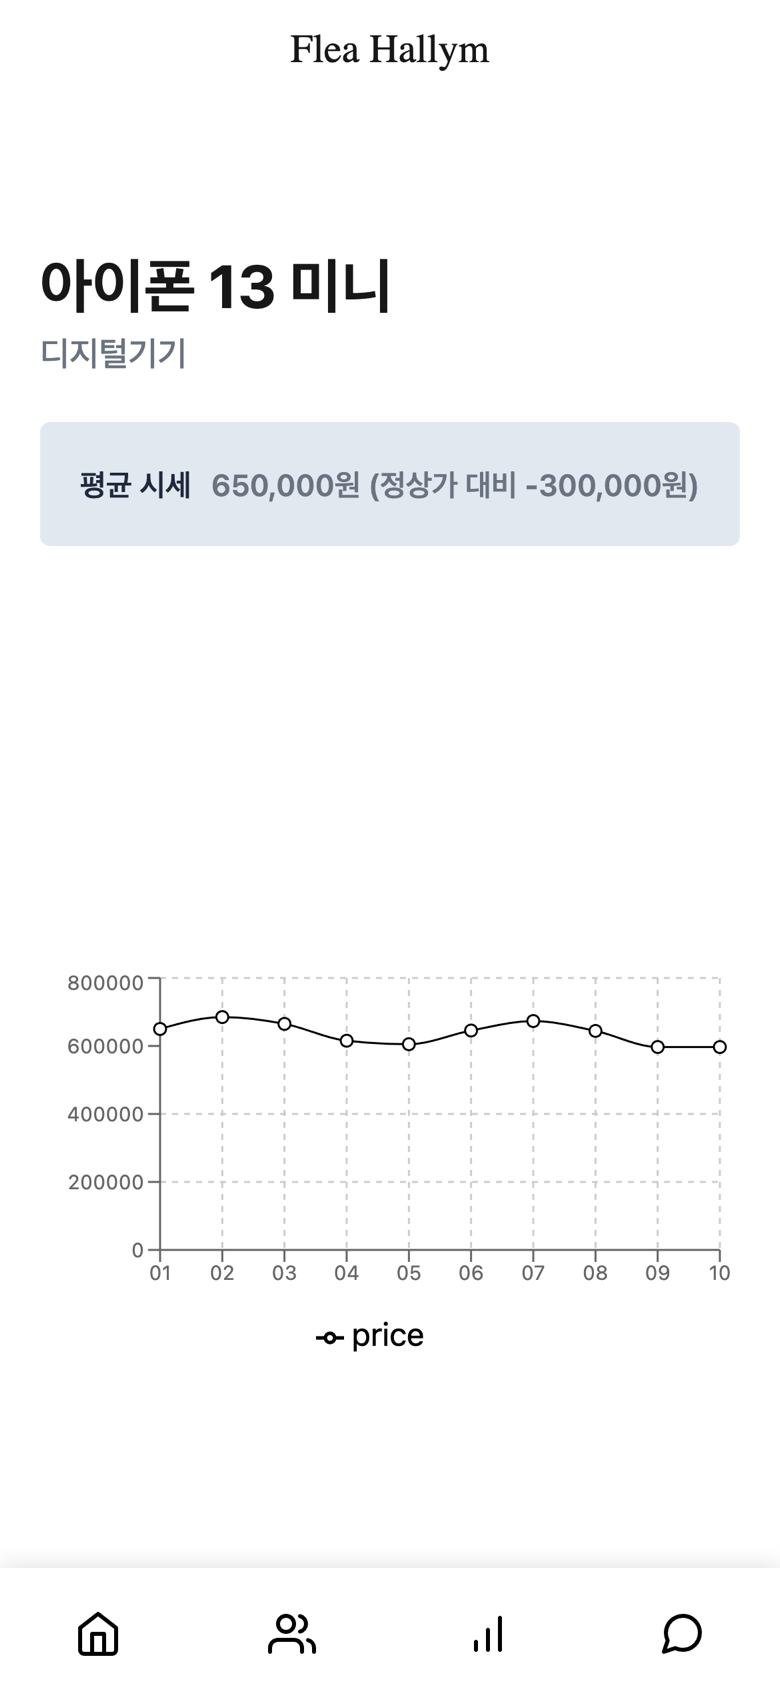
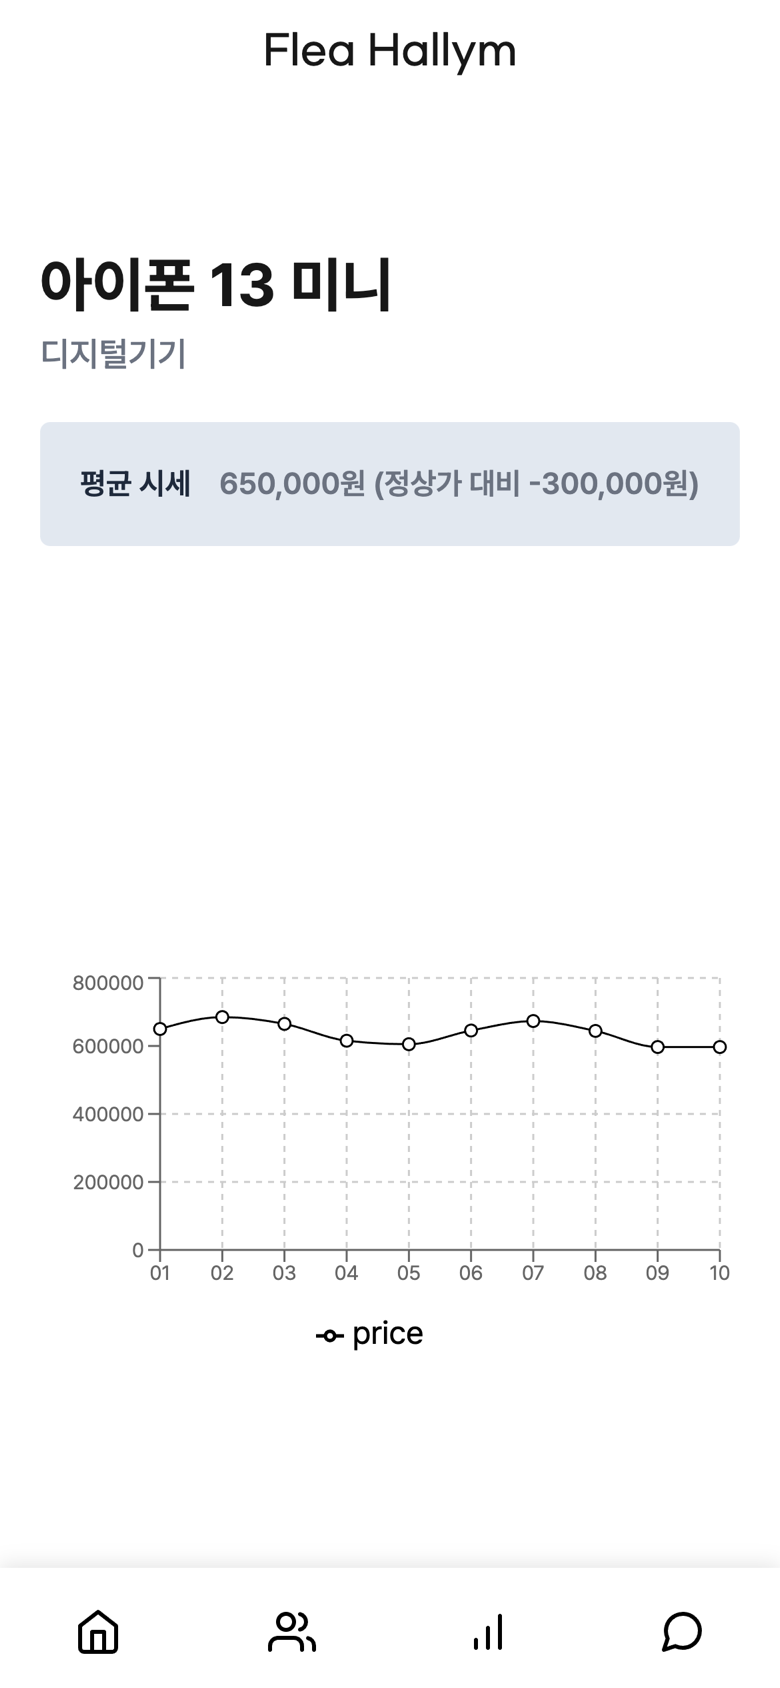
fix: 앱 글꼴이 세리프로 깨지던 문제 수정
- Gmarket 폰트를 public/fonts 로 옮겨 절대경로로 로드 (상대경로가 webpack:/// URL 로 바뀌어 로드 실패)
- Gmarket Light·Medium·Bold 굵기 등록, 기본 글꼴을 Pretendard 로 지정
- 정의되지 않은 글꼴 이름(Gmarket Sans, GMarket-Regular) 정리
- README 캡쳐·배너 다시 생성

diff --git a/components/ItemAdd/index.tsx b/components/ItemAdd/index.tsx
@@ -166,12 +166,12 @@ const ItemAddModal = () => {
                 >
                   <Col
                     sm
-                    style={{ fontFamily: "GMarket-Regular", marginTop: "5vh" }}
+                    style={{ fontFamily: "Gmarket", marginTop: "5vh" }}
                   >
                     제목
                     <Form.Control
                       type="id"
-                      style={{ fontFamily: "GMarket-Regular" }}
+                      style={{ fontFamily: "Gmarket" }}
                       placeholder="제목"
                       onChange={(event) => setTitle(event.target.value)}
                       value={title}
@@ -180,7 +180,7 @@ const ItemAddModal = () => {
                   <Col sm style={{ marginTop: "5vh" }}>
                     <Form.Control
                       type="number"
-                      style={{ fontFamily: "GMarket-Regular" }}
+                      style={{ fontFamily: "Gmarket" }}
                       placeholder="₩ 가격을 입력해주세요"
                       onChange={(event) => setPrice(event.target.value)}
                     />
@@ -188,7 +188,7 @@ const ItemAddModal = () => {
 
                   <Col
                     sm
-                    style={{ fontFamily: "GMarket-Regular", marginTop: "5vh" }}
+                    style={{ fontFamily: "Gmarket", marginTop: "5vh" }}
                   >
                     자세한 설명
                     <textarea
@@ -200,7 +200,7 @@ const ItemAddModal = () => {
                   </Col>
                   <Col
                     sm
-                    style={{ fontFamily: "GMarket-Regular", marginTop: "5vh" }}
+                    style={{ fontFamily: "Gmarket", marginTop: "5vh" }}
                   >
                     SAFE ZONE
                     <div

diff --git a/styles/font.css b/styles/font.css
@@ -1,5 +1,26 @@
+@import url("https://cdn.jsdelivr.net/gh/orioncactus/pretendard@v1.3.9/dist/web/variable/pretendardvariable-dynamic-subset.min.css");
+
 @font-face {
   font-family: "Gmarket";
-  font-weight: normal;
-  src: url("./font/GmarketSansTTF/GmarketSansTTFMedium.ttf") format("truetype");
+  font-weight: 300;
+  src: url("/fonts/GmarketSansTTF/GmarketSansTTFLight.ttf") format("truetype");
+}
+
+@font-face {
+  font-family: "Gmarket";
+  font-weight: 400 500;
+  src: url("/fonts/GmarketSansTTF/GmarketSansTTFMedium.ttf") format("truetype");
+}
+
+@font-face {
+  font-family: "Gmarket";
+  font-weight: 700;
+  src: url("/fonts/GmarketSansTTF/GmarketSansTTFBold.ttf") format("truetype");
+}
+
+body,
+input,
+textarea,
+button {
+  font-family: "Pretendard Variable", Pretendard, -apple-system, BlinkMacSystemFont, system-ui, "Apple SD Gothic Neo", "Noto Sans KR", sans-serif;
 }

diff --git a/app/productdetail/style.ts b/app/productdetail/style.ts
@@ -27,7 +27,7 @@ export const ProductName = styled.div`
   color: #171717;
 
   /* text-2xl/leading-8/font-bold */
-  font-family: Pretendard Variable;
+  font-family: "Pretendard Variable", Pretendard, sans-serif;
   font-size: 24px;
   font-style: normal;
   font-weight: 700;
@@ -42,7 +42,7 @@ export const HopePlaceTitle = styled.div`
   color: #171717;
 
   /* text-2xl/leading-8/font-bold */
-  font-family: Pretendard Variable;
+  font-family: "Pretendard Variable", Pretendard, sans-serif;
   font-size: 24px;
   font-style: normal;
   font-weight: 700;

diff --git a/app/layout.tsx b/app/layout.tsx
@@ -38,7 +38,7 @@ export default function RootLayout({
               color: "#171717",
               fontSize: "20px",
               fontWeight: "normal",
-              fontFamily: "Gmarket Sans",
+              fontFamily: "Gmarket",
             }}
           >
             Flea Hallym
